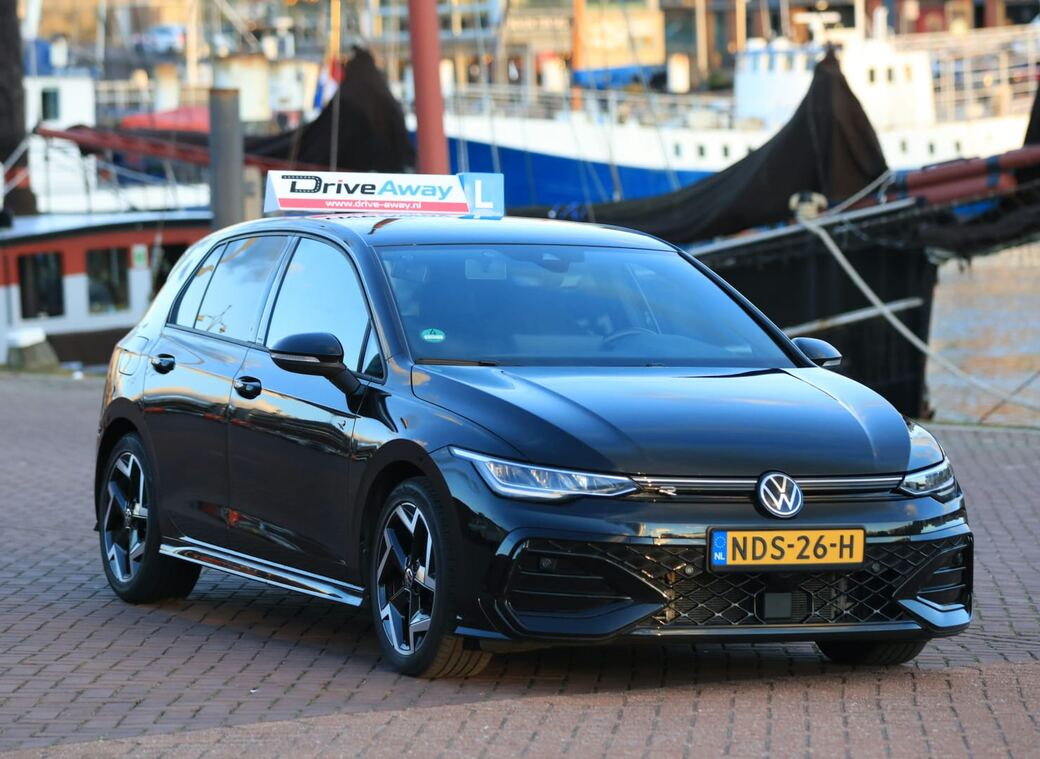
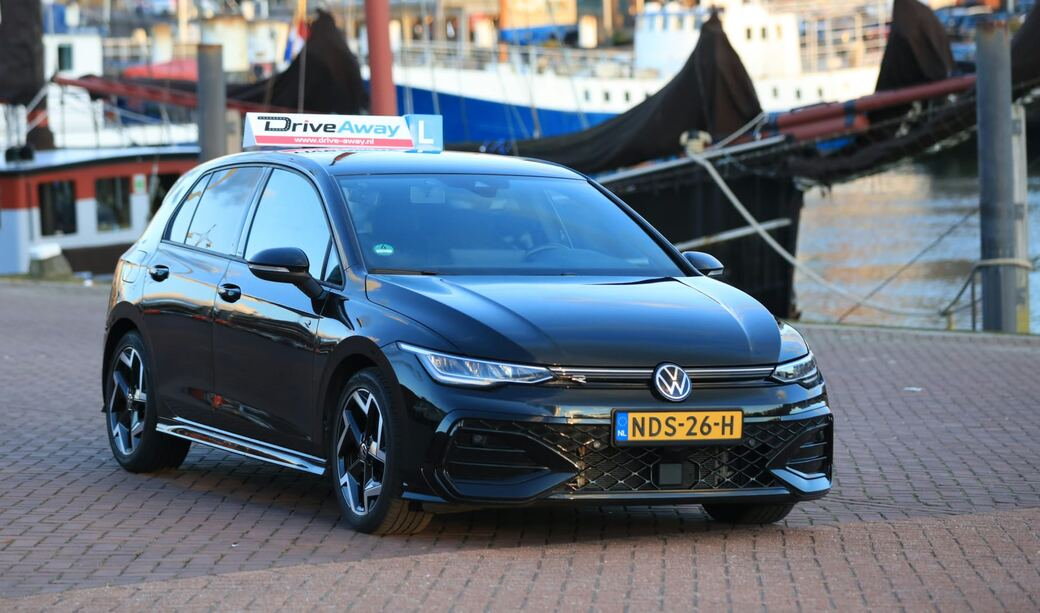
Lesauto-foto: normale zoom, alleen bovenkant iets afgesneden
Claude-Session: https://claude.ai/code/session_01SSMSMi42VnM5wMM4L9aCFY

diff --git a/index.html b/index.html
@@ -650,7 +650,7 @@
             <p class="muted small">Woon je net buiten dit gebied? Bel of app even, vaak kan het alsnog.</p>
           </div>
           <div class="card lesauto-card">
-            <img class="card-img" src="img/lesauto.jpg" width="1040" height="759" loading="lazy" alt="De zwarte DriveAway-lesauto met lesbord op het dak">
+            <img class="card-img" src="img/lesauto.jpg" width="1040" height="613" loading="lazy" alt="De zwarte DriveAway-lesauto met lesbord op het dak">
             <div class="lesauto-text">
               <h3>Je instructeur en de lesauto</h3>
               <p><strong>Alan Aziz</strong> is jouw vaste rijinstructeur. Hij geeft al zes jaar rijles in de regio Den Haag en begeleidt je van je eerste les tot aan je examen.</p>
